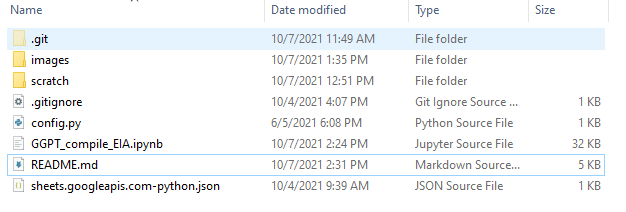
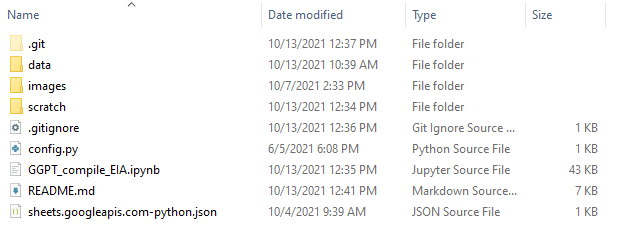
README edits

diff --git a/README.md b/README.md
@@ -36,7 +36,7 @@ For gas plant data in the United States we rely entirely on the US Energy Inform
 [Form EIA-860M](https://www.eia.gov/electricity/data/eia860m/) has generator (unit) data.
 
 ***EIA806M Tables***
-* Single table with mutliple tabs for different statuses, formatetd like "july_generator2021.xlsx"
+* Single table with multiple tabs for different statuses, formatted like "july_generator2021.xlsx"
 
 
 ### Metadata
@@ -47,7 +47,7 @@ The "Layout" file contains reference tables for abbreviations and column definit
 The “Instructions” PDF in this download has code definitions as well, same as in Layout. In 2020 it was in Table 28 “Energy Source Codes and Heat Content”.
 
 Some notes:
-* There's some inconsitency in colmun names. "Plant Code" and "Plant ID" are the same, as are "Entity ID" and "Utility ID"
+* There's some inconsistency in colmun names. "Plant Code" and "Plant ID" are the same, as are "Entity ID" and "Utility ID"
 * Utility == operator (“Legal name of the company that is responsible for the day-to-day operations of the generator")
 * Combined cycle untis are broken out into their respective parts, but the "Unit Code" field identifies which go together into a block. (Unit Code: “All generators that operate as a unit have the same unit code”)
 * In the GGPT:
@@ -74,11 +74,6 @@ There's great instructions at [Cloning a repository](https://docs.github.com/en/
 * To use this code you can manually download it from this Github site as a zipped folder
 * You can also use Git in your own code editor or command line: `git clone https://github.com/GlobalEnergyMonitor/GGPT-US-EIA.git` in the local folder one step above where you want to save the files 
 
-### Pygsheets
-To programmatically access a Google sheet this code utilizes [Pygsheets](https://pygsheets.readthedocs.io/en/stable/). You will need to do an initial installation and authorize your code in Google Console following the steps at [Authorization](https://pygsheets.readthedocs.io/en/stable/authorization.html).
-
-After you authorize your code, you need a config.py file in your root directory for this project with your authorization details, which were saved for you. This file is a *secret* so it doesn't get added to the repo. You have to create it.
-
 ### Folder Structure and Example Filename Outputs
 * Your Local Folder --> install repo here 
     * scratch
@@ -92,7 +87,7 @@ Here is a look at the folder structure on my local machine. Many of these files 
 
 ### Steps Overview
 
-1. Manually download files from EIA websites linked above under "Data"
+1. Manually download files from EIA websites linked above (and save in the repo's data folder)
 2. Run Jupyter notebook
 3. Manually edit GGPT based on the output
 
